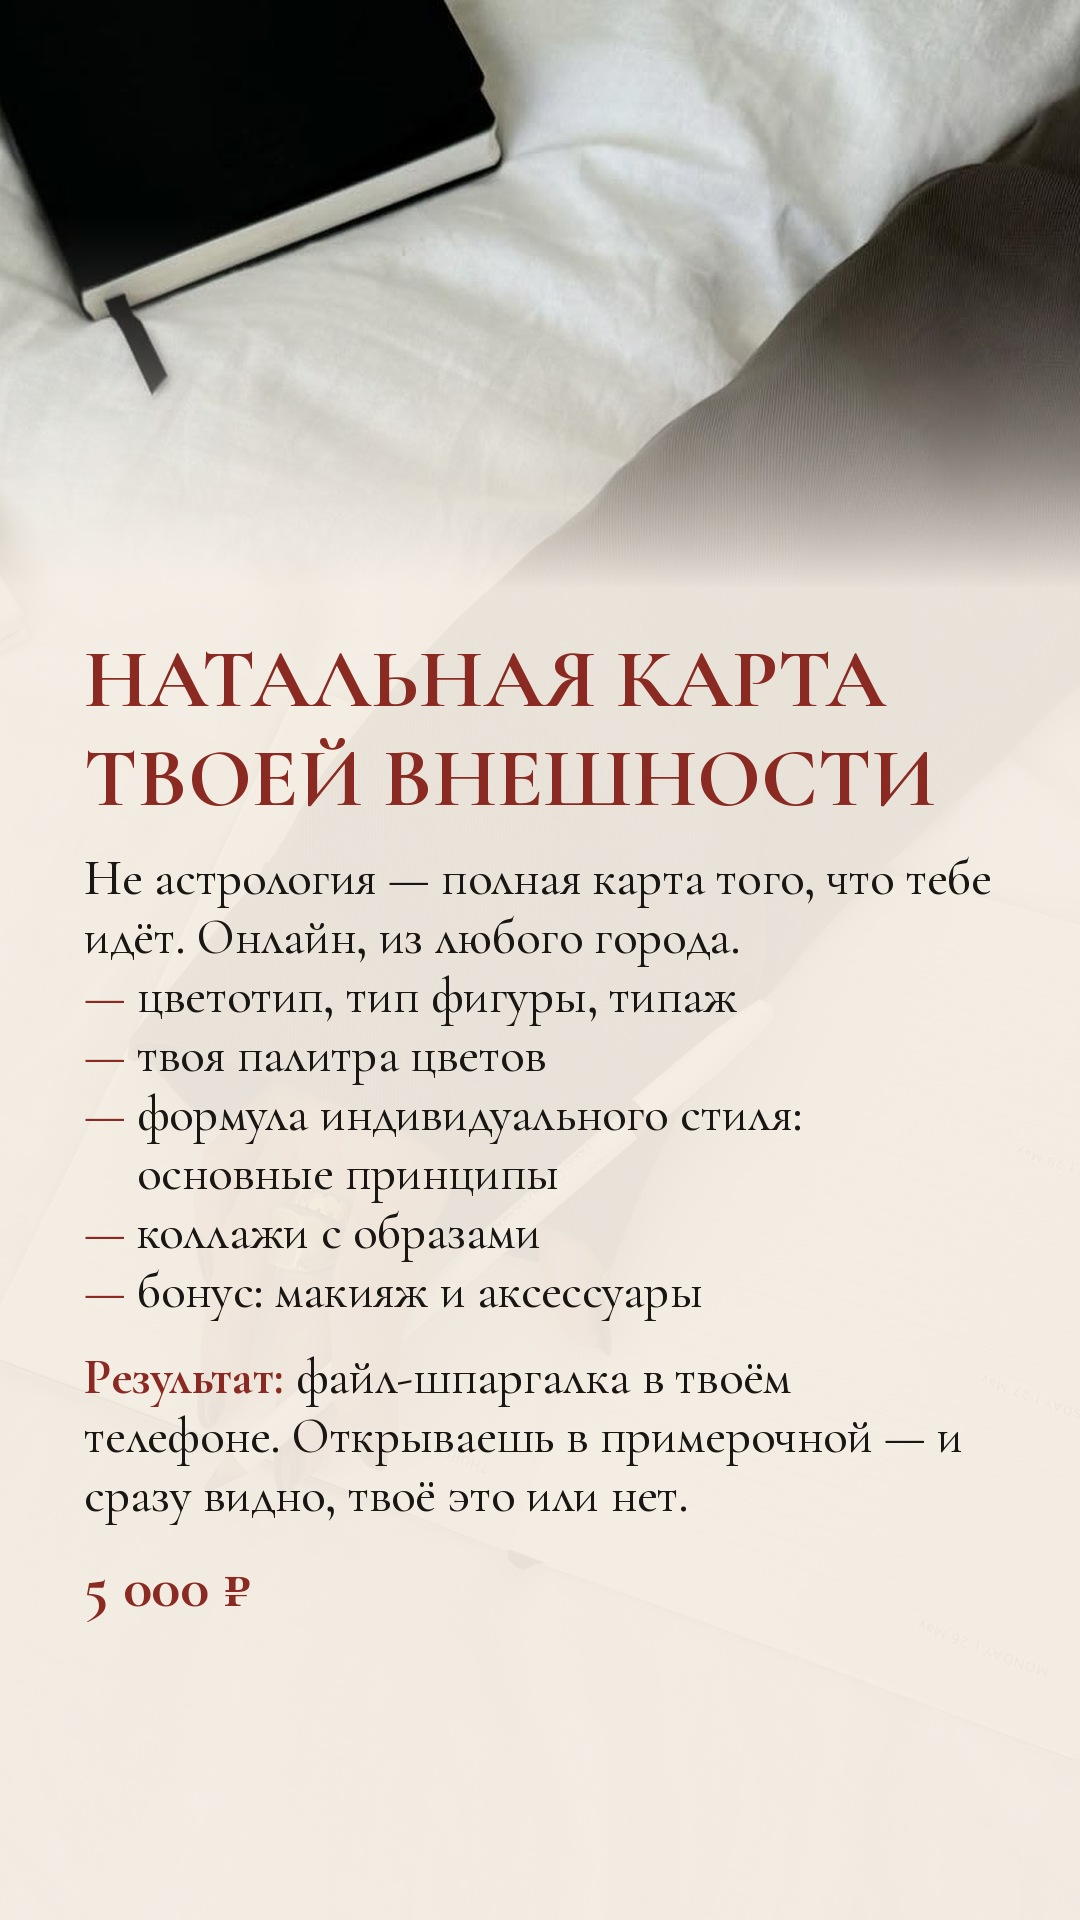
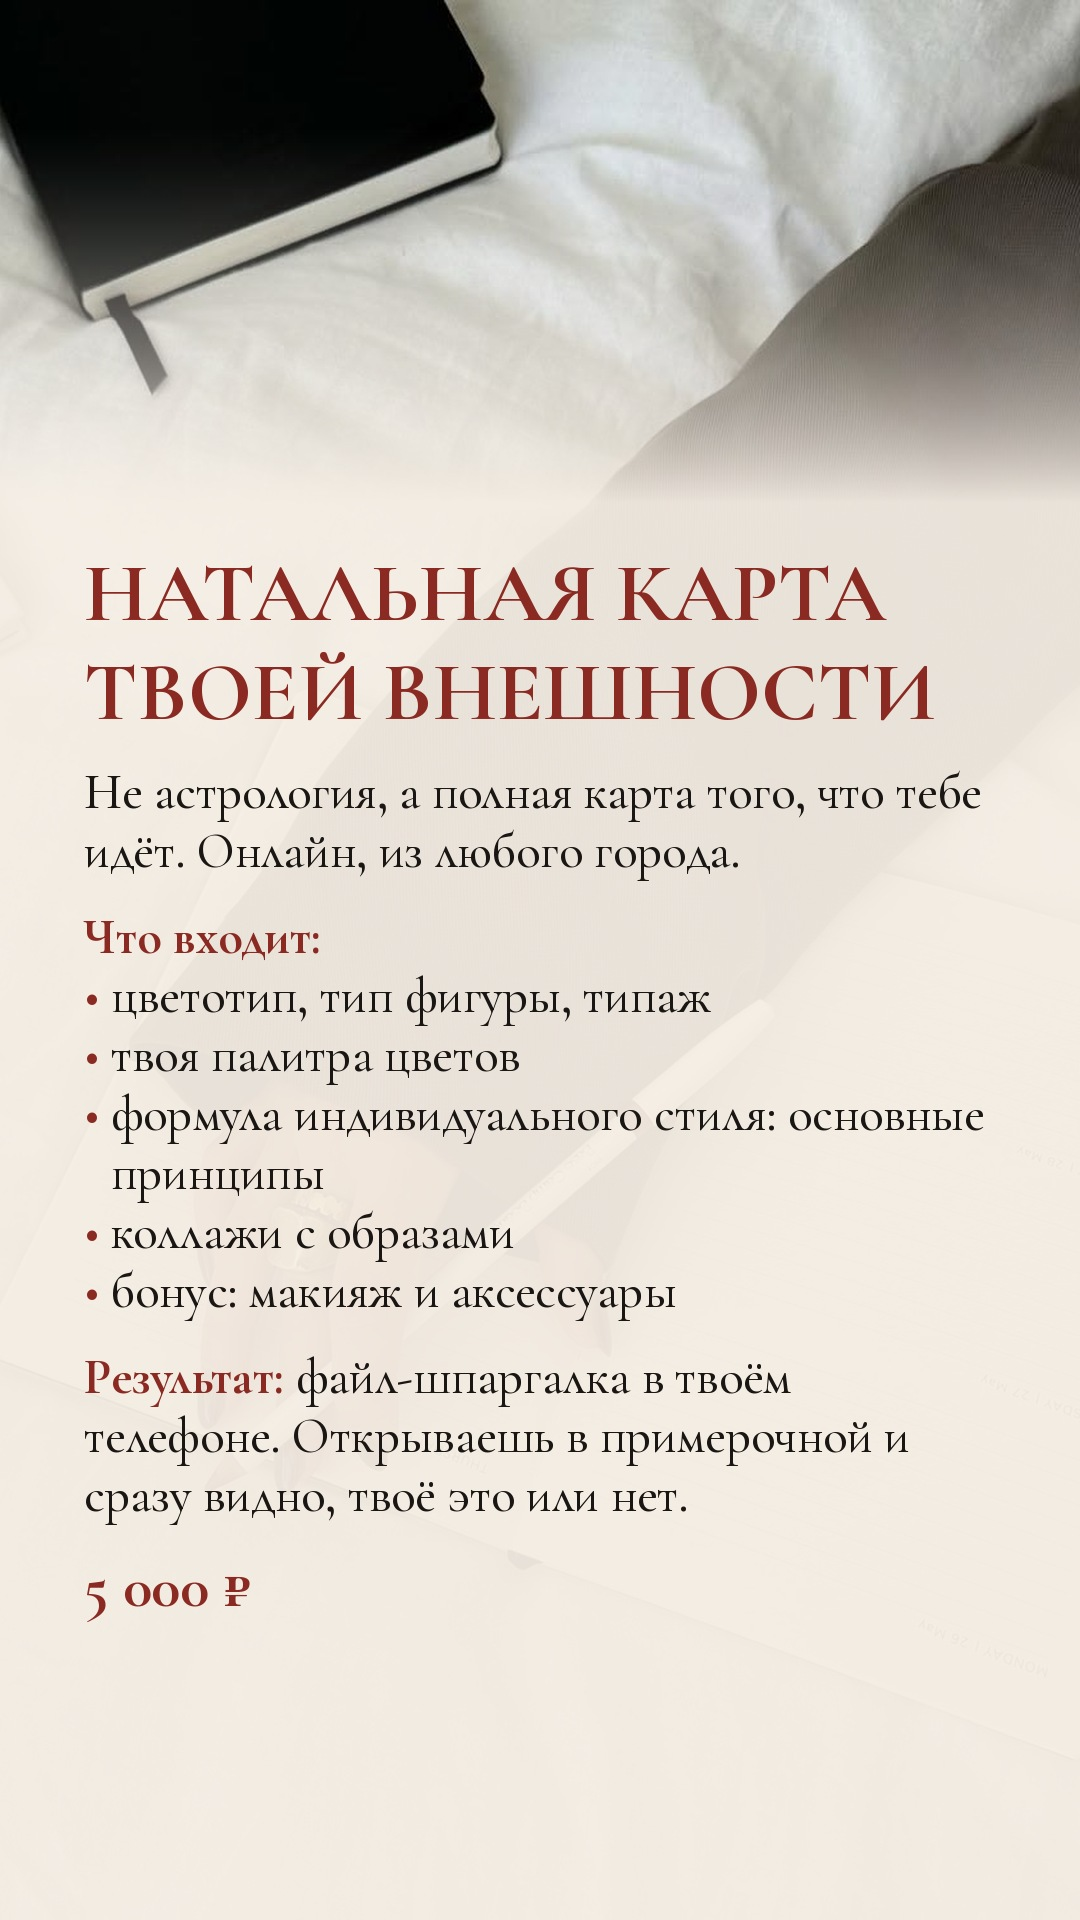
Сторис: «Что входит:» на 3-5 слайдах, без длинных тире
Пункты списков теперь с точкой, тире в тексте заменены на запятые и двоеточия.

Claude-Session: https://claude.ai/code/session_019N3Uss9xi3uMgtD3uHgRz9

Changed region(s): [[0.0611, 0.0938, 1.0, 0.6875], [0.0306, 0.0938, 0.275, 0.2188], [0.3056, 0.0938, 0.3667, 0.125]]

diff --git a/stories/make_stories.py b/stories/make_stories.py
@@ -13,7 +13,7 @@
 
 Разметка строк в "lines":
   "# текст"  — заголовок (капс)
-  "- текст"  — пункт списка с тире
+  "- текст"  — пункт списка с точкой
   "> текст"  — пункт со стрелкой
   "$ текст"  — строка цены (крупнее, цветом accent)
   "~ текст"  — мелкая строка
@@ -61,7 +61,7 @@ def cover(img, fx, fy):
 
 def parse(line):
     """-> (kind, prefix, text)"""
-    for mark, kind, prefix in (("# ", "title", ""), ("- ", "body", "—"),
+    for mark, kind, prefix in (("# ", "title", ""), ("- ", "body", "•"),
                                ("> ", "body", "→"), ("$ ", "price", ""),
                                ("~ ", "small", "")):
         if line.startswith(mark):
